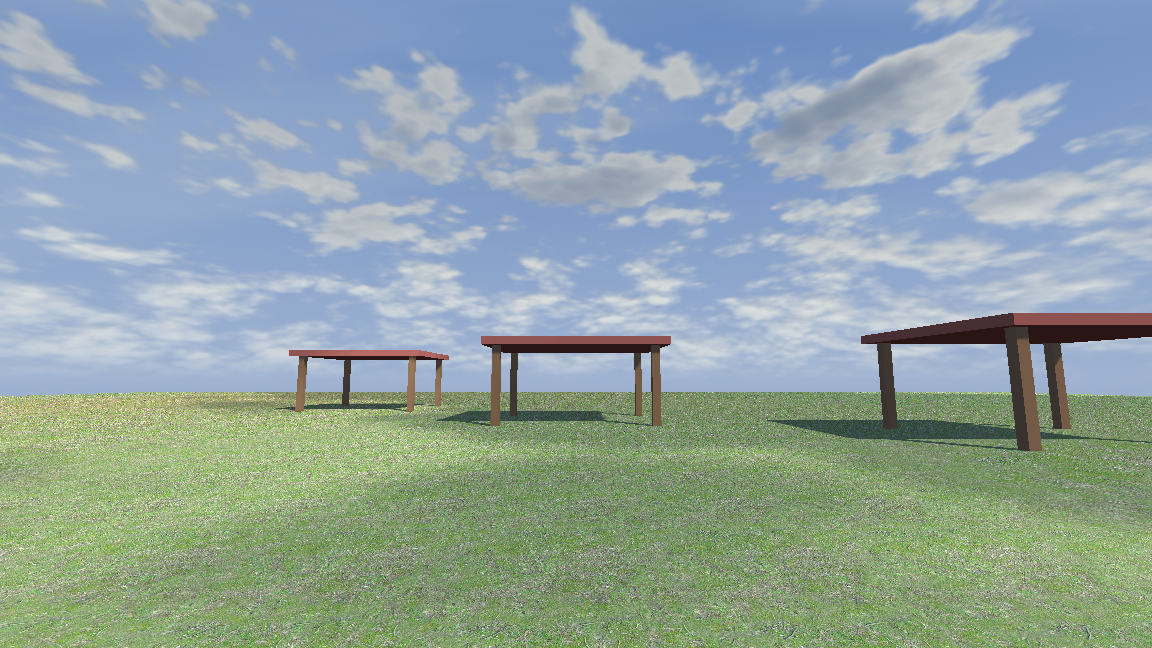
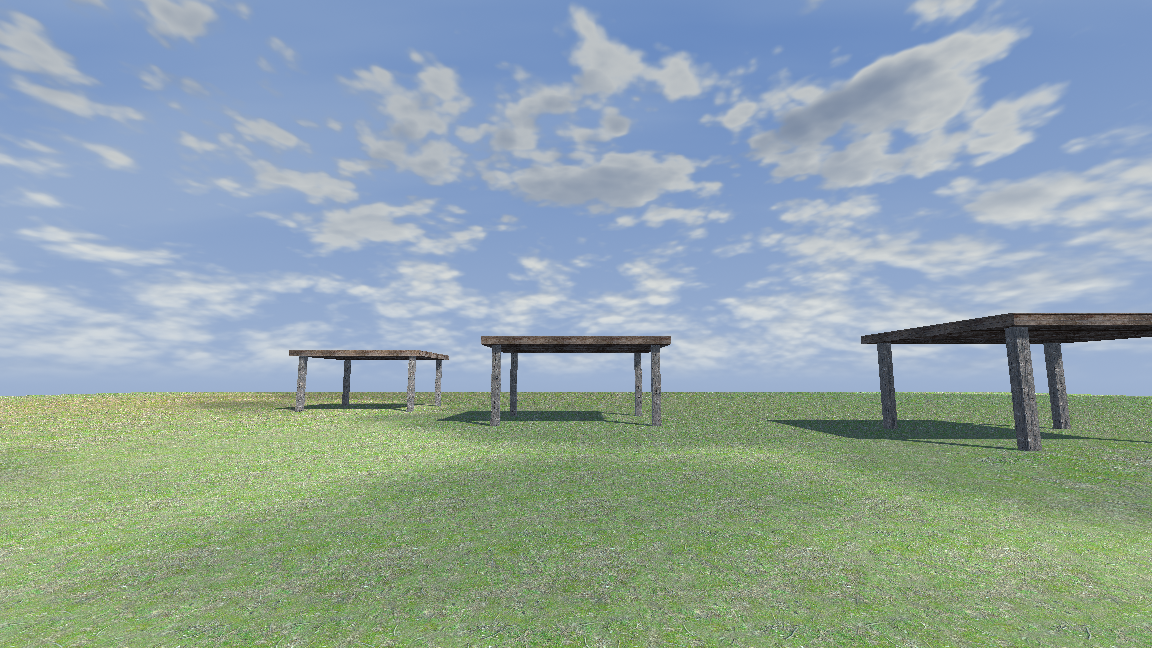
Texture the demo huts: weathered posts, planked roofs
Poly Haven CC0: Rough Wood (Rob Tuytel) for the posts, Weathered Brown Planks
(Dimitrios Savva, Rico Cilliers) for the roofs, 1K colour/normal/roughness.
The demo shader box-maps in world space (each face from the axis it faces, so
grain runs up the posts), one shared material per surface. Anti-tiling and
colour drift are the field's only (`vary`), branched on the uniform.

README shots retaken; the last set had lost SNOW and WIND to zsh's unsplit
$var, so docs/snow.png showed rain.

Claude-Session: https://claude.ai/code/session_01XSdv8RFyoAPyrA5iN6RKAt

Changed region(s): [[0.25, 0.4938, 0.5938, 0.6481], [0.7812, 0.463, 1.0, 0.7099], [0.75, 0.5247, 0.7812, 0.679]]

diff --git a/demo/textures/CREDITS.md b/demo/textures/CREDITS.md
@@ -2,3 +2,9 @@
 
 `forrest_ground_01_*_1k.jpg`: [Forest Ground 01](https://polyhaven.com/a/forrest_ground_01) by Rob
 Tuytel, from Poly Haven, CC0. The 1K colour, OpenGL normal and roughness maps, unchanged.
+
+`rough_wood_*_1k.jpg`: [Rough Wood](https://polyhaven.com/a/rough_wood) by Rob Tuytel, from Poly
+Haven, CC0. The huts' posts.
+
+`weathered_brown_planks_*_1k.jpg`: [Weathered Brown Planks](https://polyhaven.com/a/weathered_brown_planks)
+by Dimitrios Savva and Rico Cilliers, from Poly Haven, CC0. The huts' roofs.
